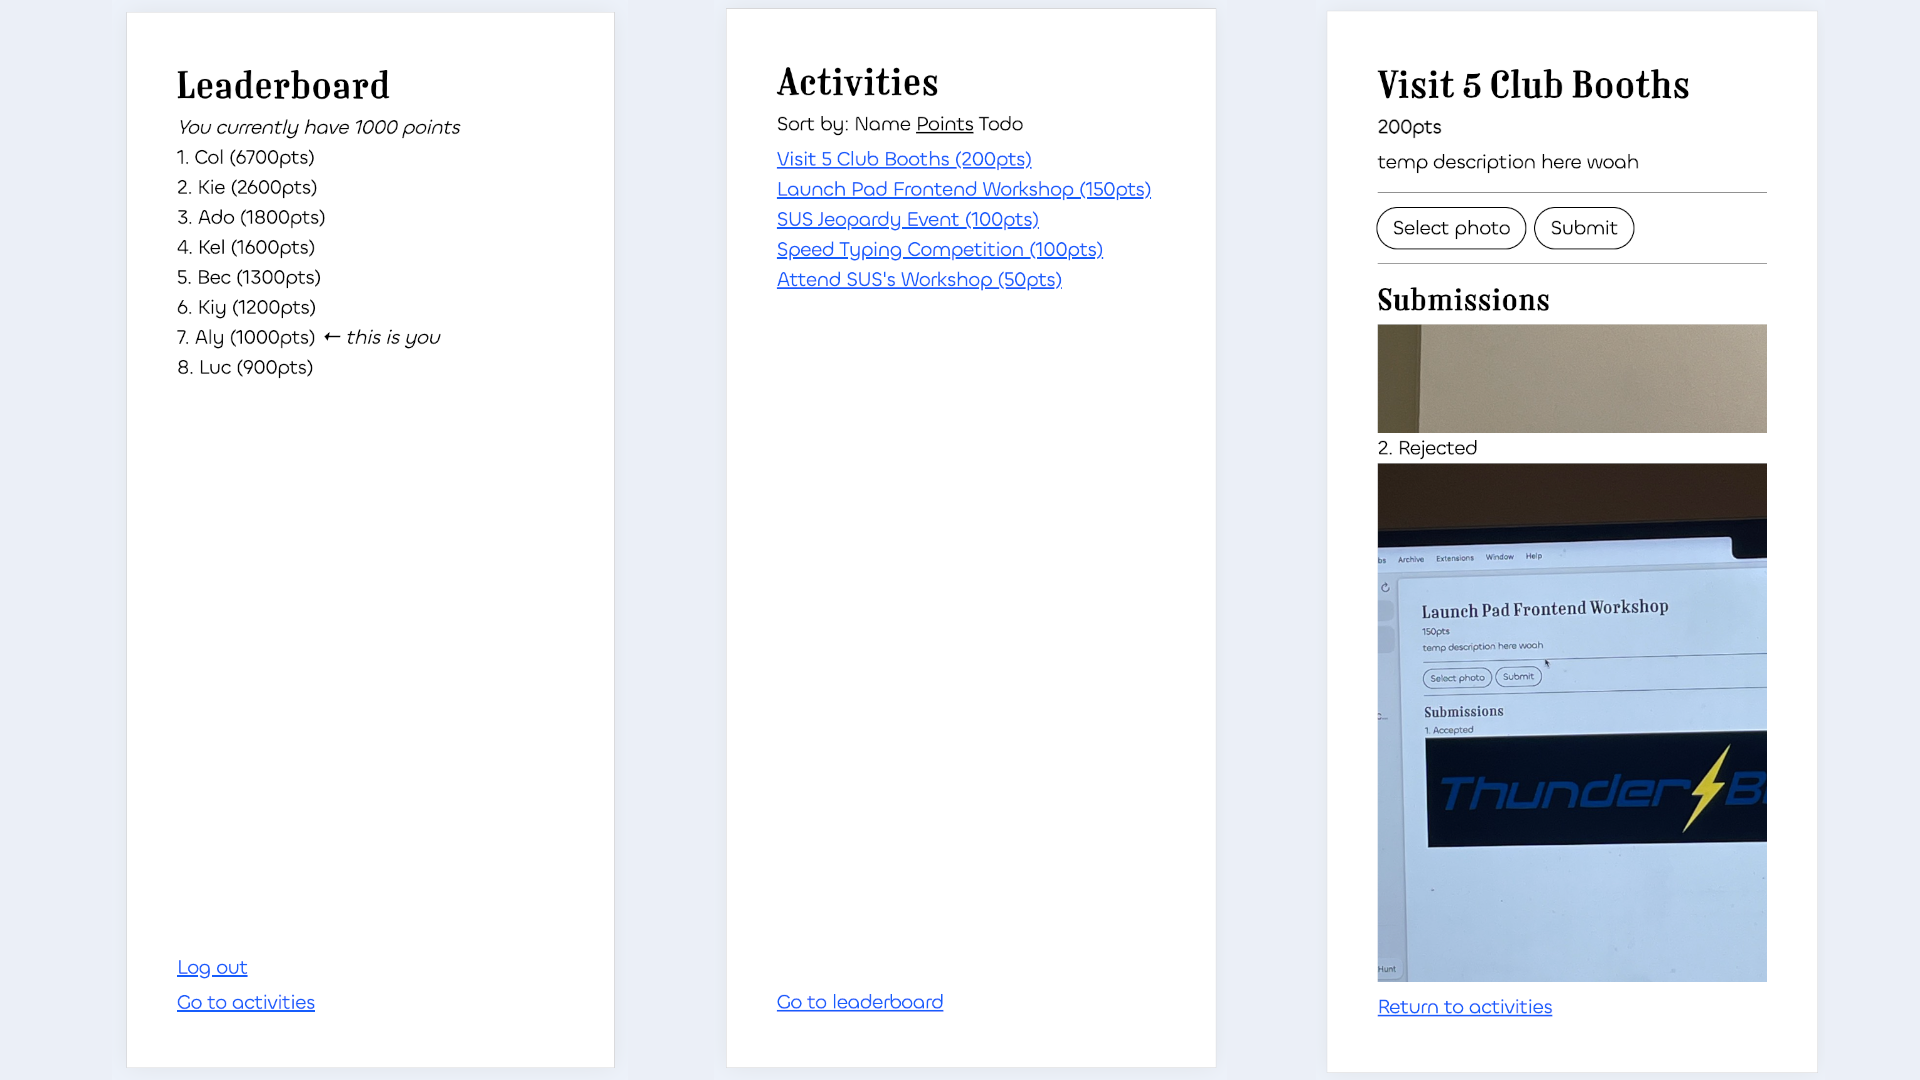
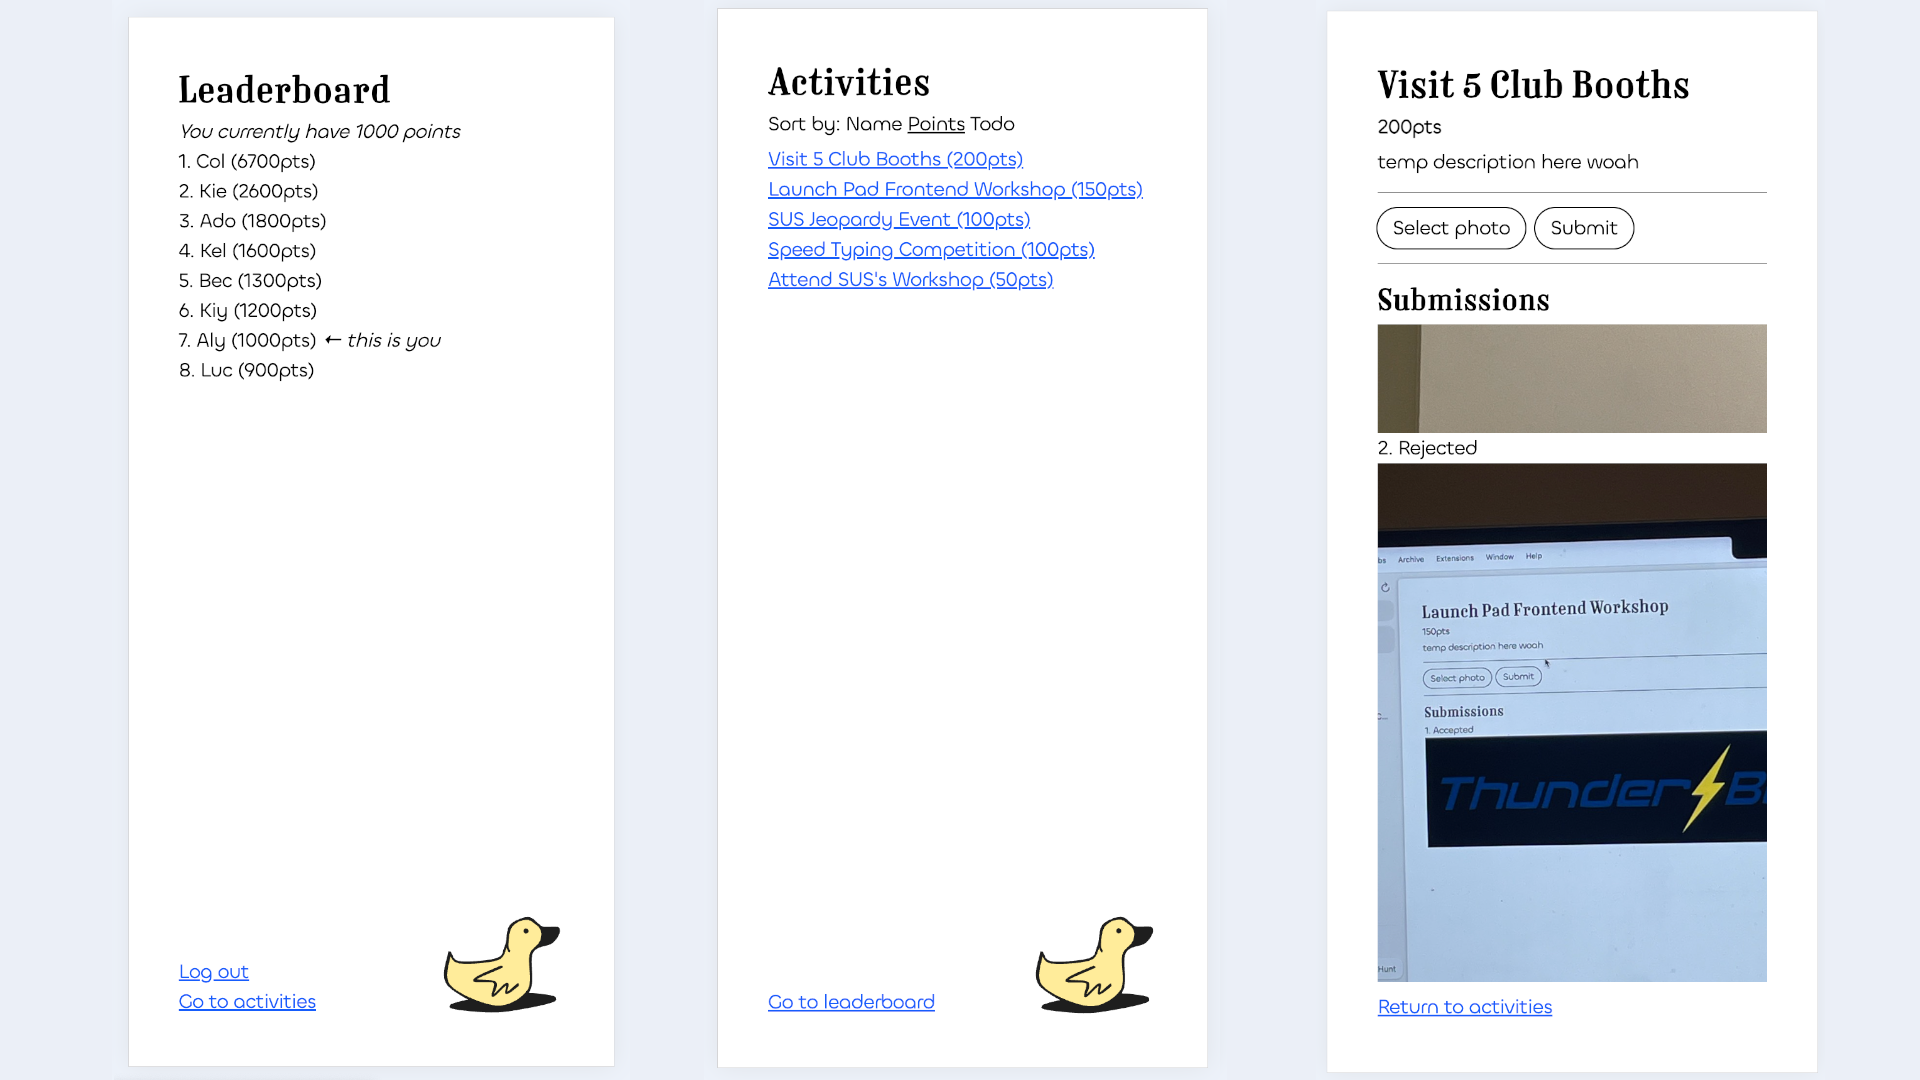
Update readme images

diff --git a/readme.md b/readme.md
@@ -8,6 +8,8 @@
     </p>
 </div>
 
+![duck hunt welcome page](docs/welcome.png)
+
 ![leaderboard, activity, and submission pages](docs/preview.png)
 
 ## Design
